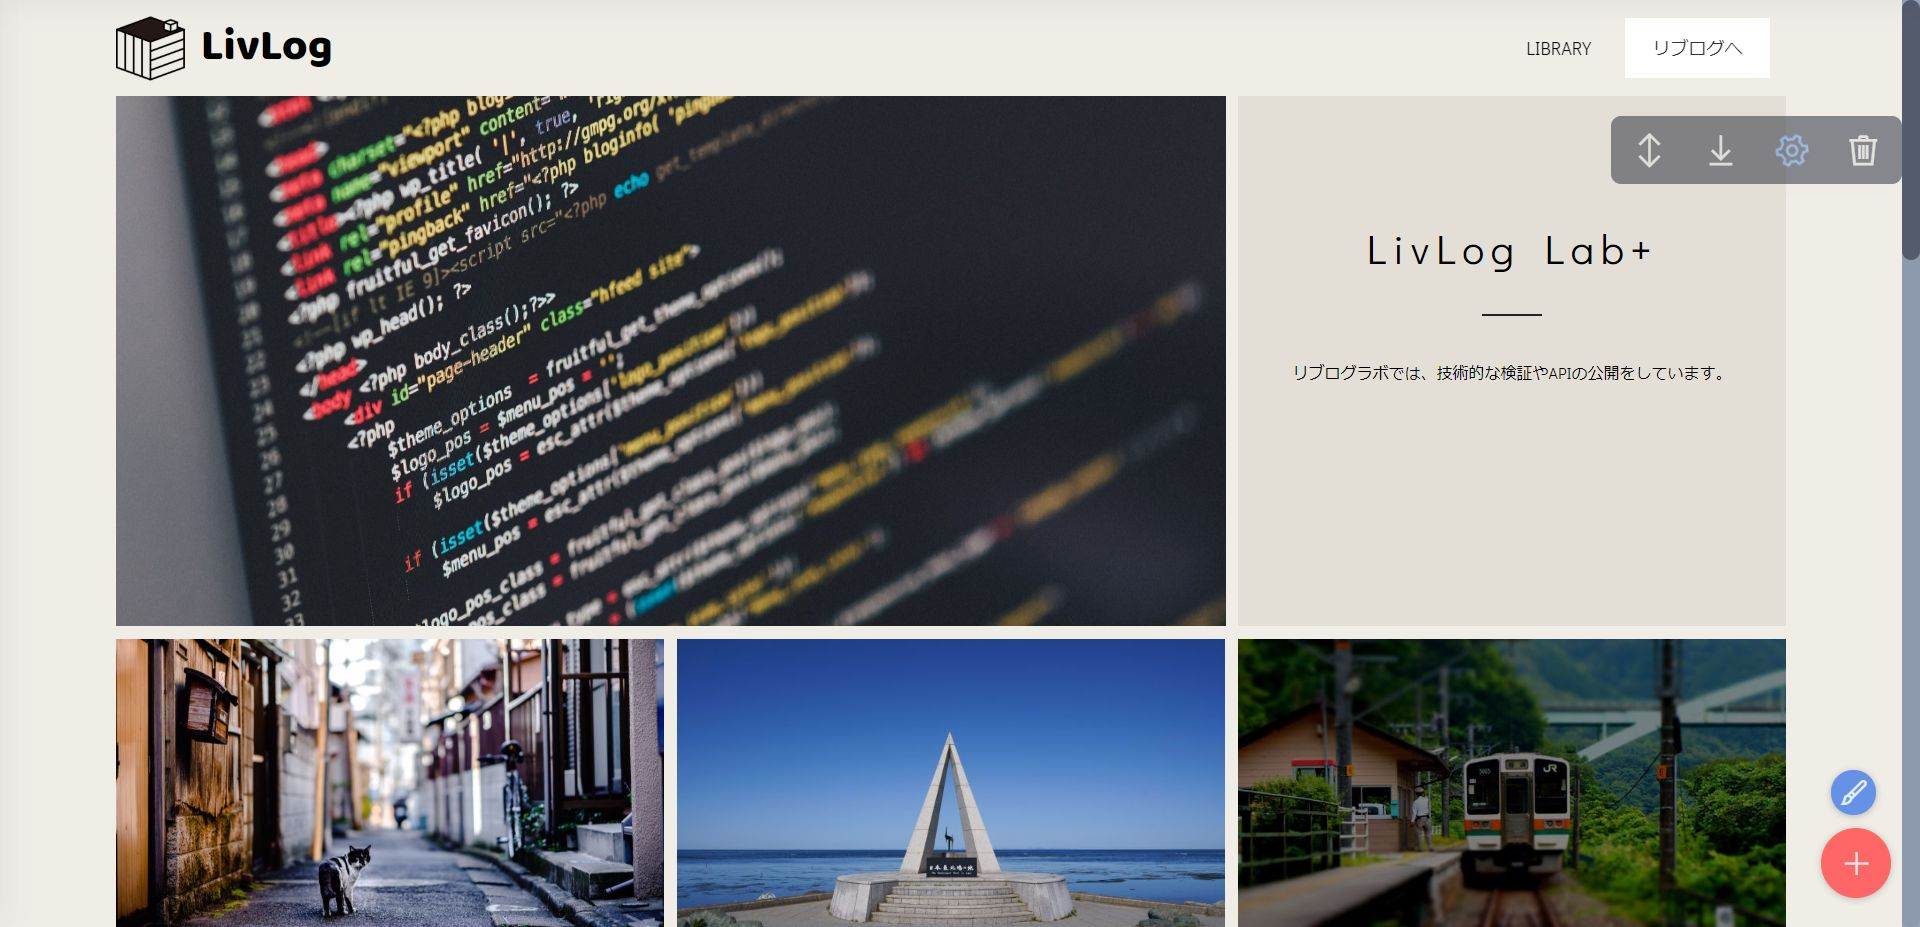
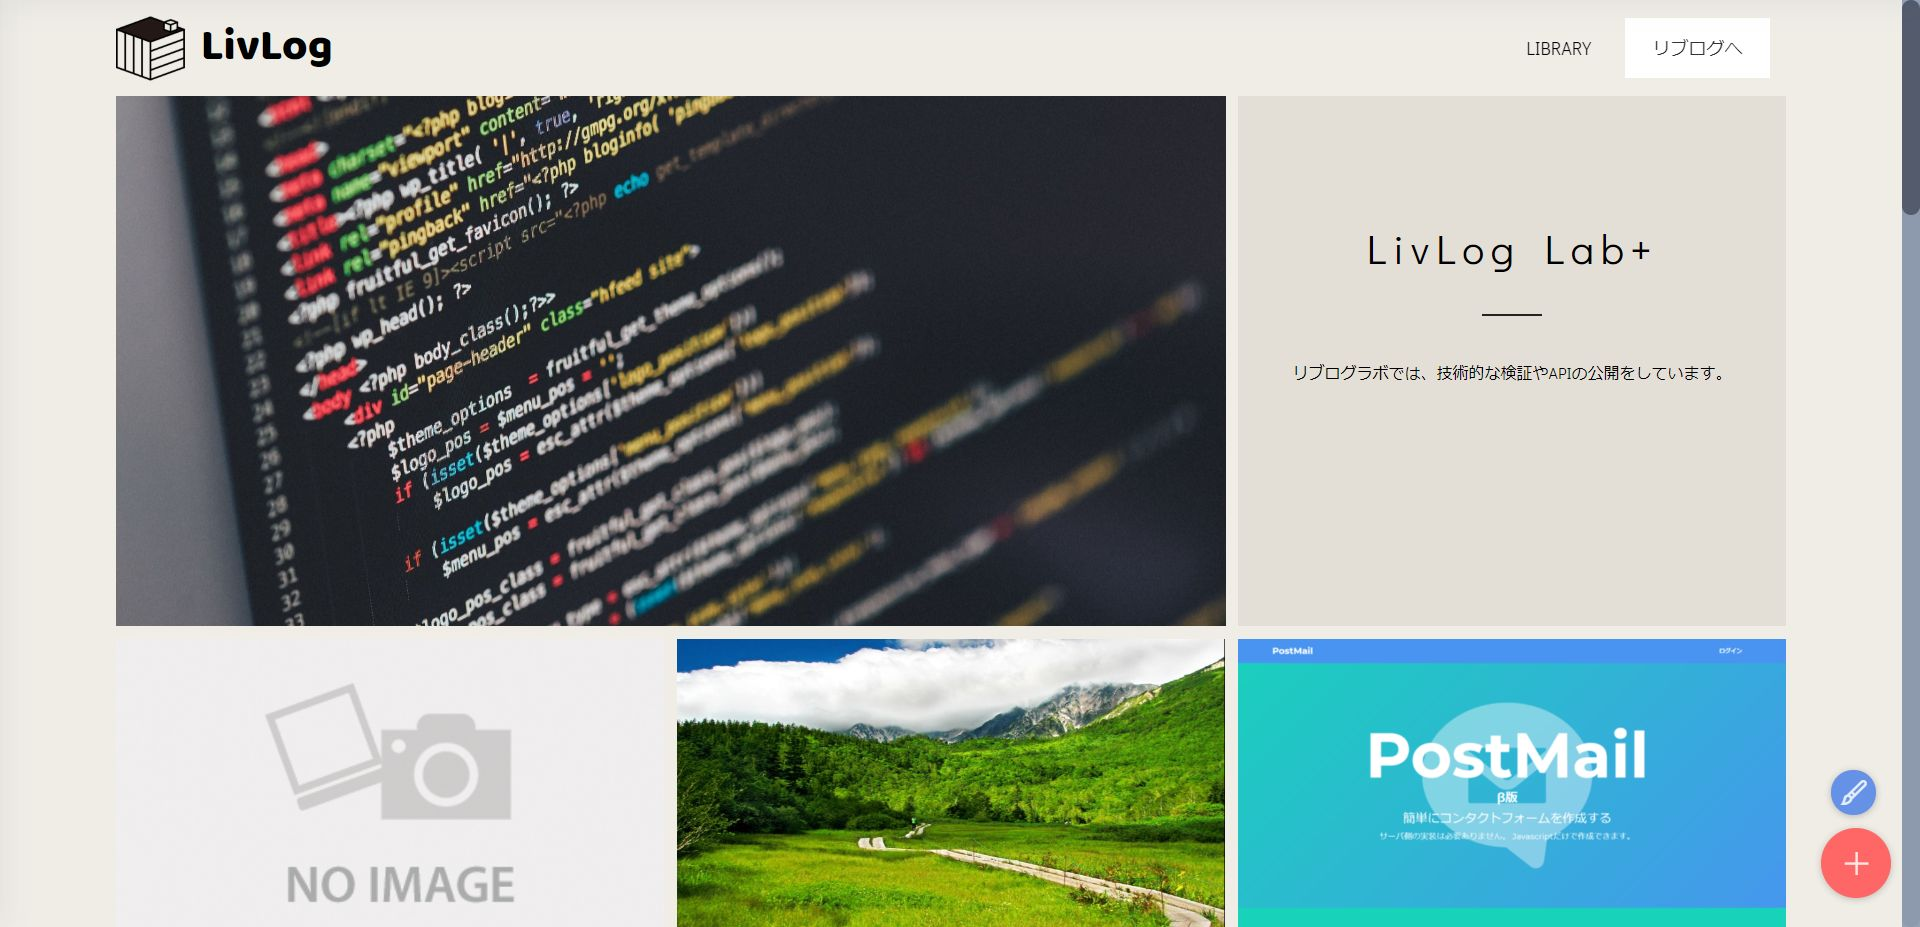
no message

Changed region(s): [[0.0625, 0.6645, 0.9375, 1.0], [0.8125, 0.1208, 1.0, 0.2718]]

diff --git a/docs/index.html b/docs/index.html
@@ -143,7 +143,7 @@ body{font-family: Didact Gothic;}blockquote{border-color: #4ea2e3;}.display-1{fo
             <div class="card mbr-col-sm-12 mbr-col-md-6 mbr-col-lg-4 first-row-card">
                 <div class="card-wrapper">
                     <div class="card-img">
-                        <amp-img src="assets/images/noimage.png" layout="responsive" height="246.1" width="438.5940594059406" alt="崩壊地名">
+                        <amp-img src="assets/images/mbr-877x585.png" layout="responsive" height="246.512" width="438.59114720812187" alt="崩壊地名">
                             
                         </amp-img>
                     </div>
